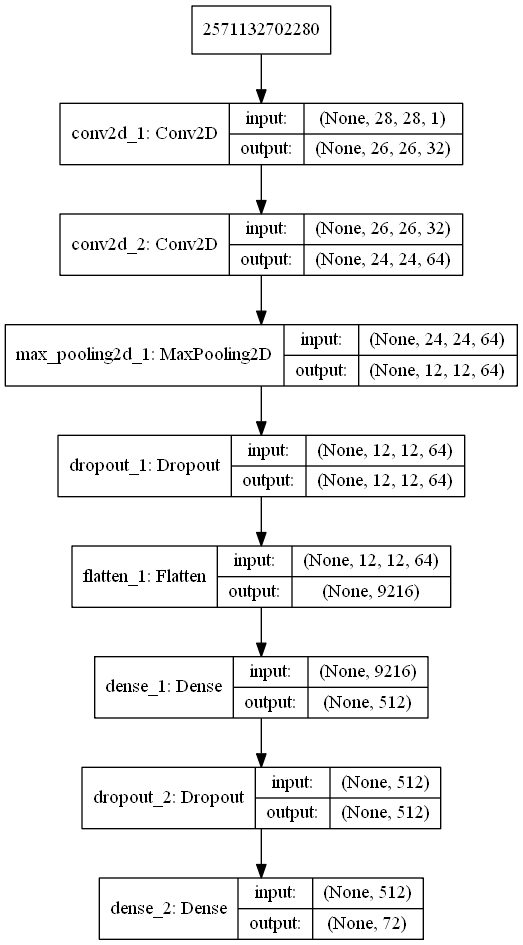
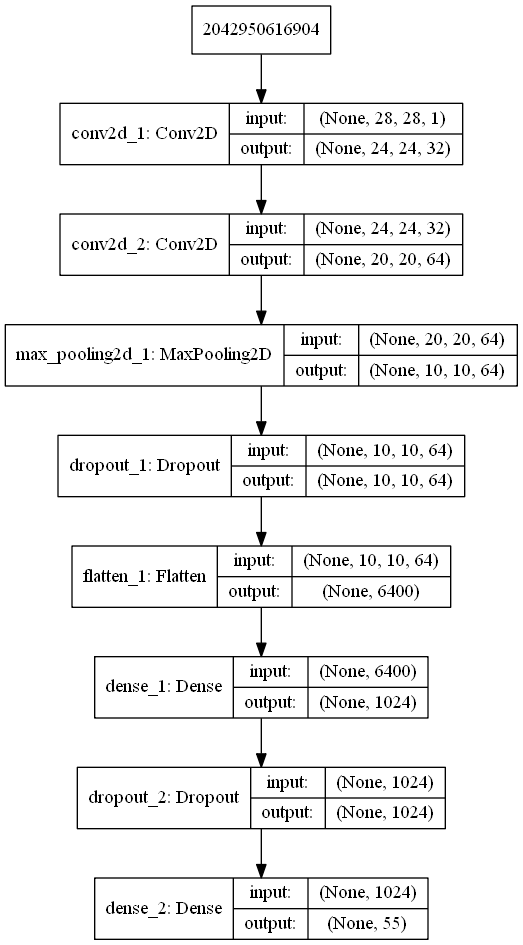
Latest model revision
Former-commit-id: 87783cf49a0b5337453b2a6138a56e3a3394f15c

diff --git a/training.py b/training.py
@@ -161,19 +161,19 @@ def build_net(num_classes, width=28, height=28):
 
     model = Sequential()
     model.add(Convolution2D(32,
-                            (3, 3),
+                            (5, 5),
                             padding='valid',
                             input_shape=input_shape,
                             activation='relu'))
     model.add(Convolution2D(64,
-                            (3, 3),
+                            (5, 5),
                             activation='relu'))
 
     model.add(MaxPooling2D(pool_size=(2, 2)))
     model.add(Dropout(rate=0.25))
 
     model.add(Flatten())
-    model.add(Dense(512, activation='relu'))
+    model.add(Dense(1024, activation='relu'))
     model.add(Dropout(rate=0.5))
     model.add(Dense(num_classes, activation='softmax'))
 
@@ -186,23 +186,29 @@ def build_net(num_classes, width=28, height=28):
     return model
 
 
-def train(model, training_data, num_classes, batch_size=256, epochs=15, plot=True):
+def train(model, training_data, mapping, num_classes, batch_size=256, epochs=50, plot=True):
     x_train, y_train, x_test, y_test = training_data
+
+    labels = list(mapping.values())
+    labels.append('')
+    ind = np.arange(num_classes)
+    width = .1
+    plt.figure()
+    hist = np.histogram(y_train, bins=num_classes)[0]
+    plt.bar(ind + width, hist, align='center', tick_label=labels)
+    plt.gca().set(title='Character Frequency Histogram', ylabel='Occurrences')
+    plt.show()
+
     start = time.time()
     print(str(np.unique(y_train)))
     # convert class vectors to binary class matrices
     y_train = np_utils.to_categorical(y_train, num_classes)
     y_test = np_utils.to_categorical(y_test, num_classes)
-    reduce_lr = keras.callbacks.ReduceLROnPlateau(monitor='val_loss',
-                                                  factor=0.2,
-                                                  patience=2,
-                                                  min_lr=0.001)
     history = model.fit(x_train, y_train,
                         batch_size=batch_size,
                         epochs=epochs,
                         verbose=1,
-                        validation_data=(x_test, y_test),
-                        callbacks=[reduce_lr])
+                        validation_data=(x_test, y_test))
 
     end = time.time()
     print('Training took ' + str(end-start) + ' seconds')
@@ -242,7 +248,7 @@ def train(model, training_data, num_classes, batch_size=256, epochs=15, plot=Tru
 if __name__ == '__main__':
     parser = argparse.ArgumentParser(usage='Program to train a CNN for character detection')
     parser.add_argument('-f', '--file', type=str, help='File to use for training', required=True)
-    parser.add_argument('--epochs', type=int, default=15, help='Number of epochs to train on')
+    parser.add_argument('--epochs', type=int, default=10, help='Number of epochs to train on')
     args = parser.parse_args()
 
     bin_dir = os.path.dirname(os.path.realpath(__file__)) + '/bin'
@@ -252,7 +258,8 @@ if __name__ == '__main__':
     emnist_data = load_emnist_data(args.file)
     emnist_mapping = emnist_data[3]
     print('EMNIST data loaded ' + str(emnist_data[2]) + ' classes')
-    hasy_data = load_hasy_data(len(emnist_mapping), ['+', '-', '>', '<', '\\geq', '\\pi', '\\{', '\\}', '\\forall'])
+    hasy_data = load_hasy_data(len(emnist_mapping),
+                               ['\\pi', '\\{', '\\}', '\\forall', '\\doteq', '\\pm', '\\nabla'])
     hasy_mapping = hasy_data[3]
     print('Hasy data loaded ' + str(hasy_data[2]) + ' classes')
 
@@ -268,4 +275,4 @@ if __name__ == '__main__':
     print('Total classes: ' + str(num_classes))
     pickle.dump(mapping, open('bin/mapping.p', 'wb'))
     model = build_net(num_classes)
-    train(model, merge(emnist_data, hasy_data), num_classes, epochs=args.epochs)
+    train(model, merge(emnist_data, hasy_data), mapping, num_classes, epochs=args.epochs)
